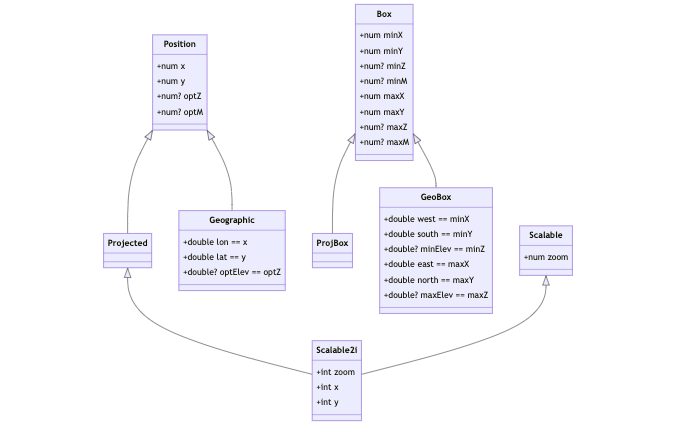
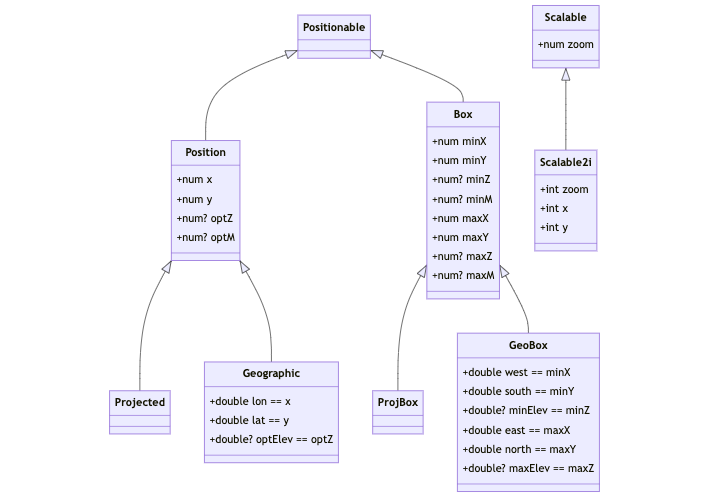
refactor(geobase): remove inheritance of Scalable2i from Projected #183
BREAKING CHANGE: definition of Scalable2i changed, some methods removed

Changed region(s): [[0.1553, 0.0, 0.8698, 1.0], [0.466, 0.52, 0.5281, 0.6424], [0.3417, 0.1224, 0.3728, 0.1529]]

diff --git a/dart/geobase/lib/src/coordinates/scalable/scalable2i.dart b/dart/geobase/lib/src/coordinates/scalable/scalable2i.dart
@@ -6,38 +6,32 @@
 
 import 'package:meta/meta.dart';
 
-import '/src/codes/coords.dart';
-import '/src/constants/epsilon.dart';
-import '/src/coordinates/base/position.dart';
-import '/src/coordinates/projected/projected.dart';
 import '/src/utils/format_validation.dart';
 import '/src/utils/num.dart';
 
 import 'scalable.dart';
 
-/// Scalable [x], [y] projected coordinates at the [zoom] level.
+/// Scalable [x], [y] coordinates at the [zoom] level.
 ///
 /// [zoom] must be a positive integer.
 ///
 /// Coordinates [x], [y] and [zoom] have integer values.
 ///
-/// Scalable coordinates are projected coordinates associated with some level of
-/// detail (LOD) or `zoom` level. They are used for example by tiling schemes to
+/// Scalable coordinates are coordinates associated with some level of detail
+/// (LOD) or `zoom` level. They are used for example by tiling schemes to
 /// represent *pixels* and *tiles* of tile matrices.
 @immutable
-class Scalable2i implements Scalable, Projected {
+class Scalable2i implements Scalable {
   @override
   final int zoom;
 
   /// The x coordinate value at [zoom].
-  @override
   final int x;
 
   /// The y coordinate value at [zoom].
-  @override
   final int y;
 
-  /// Create scalable [x], [y] projected coordinates at the [zoom] level.
+  /// Create scalable [x], [y] coordinates at the [zoom] level.
   ///
   /// [zoom] must be a positive integer.
   const Scalable2i({required this.zoom, required this.x, required this.y})
@@ -46,13 +40,12 @@ class Scalable2i implements Scalable, Projected {
   /// A factory function creating scalable [x], [y] coordinates at [zoom].
   ///
   /// [zoom] must be a positive integer.
-  ///
-  /// The returned function is compatible with the `CreatePosition` function
-  /// type.
-  static CreatePosition<Scalable2i> factory({int zoom = 0}) {
+  static Scalable2i Function({required int x, required int y}) factory({
+    int zoom = 0,
+  }) {
     assert(zoom >= 0, 'Zoom must be >= 0');
-    return ({required num x, required num y, num? z, num? m}) =>
-        Scalable2i(zoom: zoom, x: x.round(), y: y.round());
+    return ({required int x, required int y}) =>
+        Scalable2i(zoom: zoom, x: x, y: y);
   }
 
   /// Builds scalable coordinates from [coords] given in order: zoom, x, y.
@@ -132,118 +125,44 @@ class Scalable2i implements Scalable, Projected {
           );
   }
 
-  @override
-  num get z => 0;
-
-  @override
-  num? get optZ => null;
-
-  @override
-  num get m => 0;
-
-  @override
-  num? get optM => null;
-
   /// A coordinate value by the coordinate axis index [i].
   ///
   /// Returns zero when a coordinate axis is not available.
   ///
-  /// For mapped coordinates, the coordinate ordering is: (x, y)
-  @override
+  /// For scalable coordinates, the coordinate ordering is: (zoom, x, y)
   int operator [](int i) {
     switch (i) {
       case 0:
-        return x;
+        return zoom;
       case 1:
+        return x;
+      case 2:
         return y;
       default:
         return 0;
     }
   }
 
-  /// Coordinate values of this position as an iterable of 2 items.
+  /// Coordinate values of this position as an iterable of 3 items.
   ///
-  /// For scalable coordinates, the coordinate ordering is: (x, y)
-  @override
-  Iterable<int> get values => [x, y];
-
-  @override
-  R copyTo<R extends Position>(CreatePosition<R> factory) =>
-      factory.call(x: x, y: y);
+  /// For scalable coordinates, the coordinate ordering is: (zoom, x, y)
+  Iterable<int> get values => [zoom, x, y];
 
   /// Copies the point with optional [zoom], [x] and [y] overriding values.
   ///
-  /// Parameters [z] and [m] are ignored as `MapPoint2i` does not support them.
-  ///
-  /// For example: `MapPoint2i(zoom: 2, x: 1, y: 1).copyWith(y: 2)` equals to
-  /// `MapPoint2i(zoom: 2, x: 1, y: 2)`.
-  @override
-  Scalable2i copyWith({int? zoom, num? x, num? y, num? z, num? m}) =>
-      Scalable2i(
+  /// For example: `Scalable2i(zoom: 2, x: 1, y: 1).copyWith(y: 2)` equals to
+  /// `Scalable2i(zoom: 2, x: 1, y: 2)`.
+  Scalable2i copyWith({int? zoom, int? x, int? y}) => Scalable2i(
         zoom: zoom ?? this.zoom,
-        x: (x ?? this.x).round(),
-        y: (y ?? this.y).round(),
+        x: x ?? this.x,
+        y: y ?? this.y,
       );
 
+  /// A string representation of coordinate values separated by [delimiter].
+  ///
+  /// For scalable coordinates, the coordinate ordering is: (zoom, x, y)
   @override
-  Projected transform(TransformPosition transform) => transform.call(this);
-
-  @override
-  int get spatialDimension => 2;
-
-  @override
-  int get coordinateDimension => 2;
-
-/*
-  @override
-  bool get isGeographic => false;
-*/
-
-  @override
-  bool get is3D => false;
-
-  @override
-  bool get isMeasured => false;
-
-  @override
-  Coords get type => Coords.xy; // Note: "zoom" is not coordinate but LOD
-
-  @override
-  bool equals2D(
-    Position other, {
-    double toleranceHoriz = defaultEpsilon,
-  }) =>
-      Position.testEquals2D(this, other, toleranceHoriz: toleranceHoriz);
-
-  @override
-  bool equals3D(
-    Position other, {
-    double toleranceHoriz = defaultEpsilon,
-    double toleranceVert = defaultEpsilon,
-  }) =>
-      Position.testEquals3D(
-        this,
-        other,
-        toleranceHoriz: toleranceHoriz,
-        toleranceVert: toleranceVert,
-      );
-
-  @override
-  String toText({
-    String delimiter = ',',
-    int? decimals,
-    bool swapXY = false,
-  }) {
-    final buf = StringBuffer();
-    Position.writeValues(
-      this,
-      buf,
-      delimiter: delimiter,
-      decimals: decimals,
-      swapXY: swapXY,
-    );
-    return buf.toString();
-  }
+  String toText({String delimiter = ','}) => '$zoom$delimiter$x$delimiter$y';
 
   @override
   String toString() {

diff --git a/dart/geobase/test/tiling/web_mercator_quad_test.dart b/dart/geobase/test/tiling/web_mercator_quad_test.dart
@@ -13,8 +13,6 @@ import 'package:test/test.dart';
 
 import '../projections/projection_sample.dart';
 
-import 'tiling_samples.dart';
-
 const _samples = [
   Geographic(lon: 0.0, lat: 0.0),
   Geographic(lon: -87.65, lat: 41.85),
@@ -98,10 +96,7 @@ void main() {
           // geographic position to pixel
           final pixel = webMercator.positionToPixel(pos, zoom: zoom);
           final pixelRef = _refToPixel(pos, zoom);
-          expectScaled2i(
-            pixel,
-            pixelRef,
-          );
+          expect(pixel, pixelRef);
 
           // calculated pixel back to geographic position (not accurate anymore)
           final unprojectedPos = webMercator.pixelToPosition(pixel);
@@ -114,22 +109,19 @@ void main() {
           // and again to pixel
           final pixel2 =
               webMercator.positionToPixel(unprojectedPos, zoom: zoom);
-          expectScaled2i(pixel2, pixelRef);
+          expect(pixel2, pixelRef);
 
           // geographic position to tile
           final tile = webMercator.positionToTile(pos, zoom: zoom);
           final tileRef = _refToTile(pos, zoom);
-          expectScaled2i(tile, tileRef);
+          expect(tile, tileRef);
 
           // pixel to tile
-          expectScaled2i(webMercator.pixelToTile(pixel), tileRef);
+          expect(webMercator.pixelToTile(pixel), tileRef);
 
           // world to pixel
           final pixel3 = webMercator.worldToPixel(world, zoom: zoom);
-          expectScaled2i(
-            pixel3,
-            pixelRef,
-          );
+          expect(pixel3, pixelRef);
 
           // pixel to world
           expectPosition(webMercator.pixelToWorld(pixel), world, 0.5);
@@ -137,7 +129,7 @@ void main() {
           expectPosition(webMercator.pixelToWorld(pixel3), world, 0.5);
 
           // world to tile
-          expectScaled2i(webMercator.worldToTile(world, zoom: zoom), tileRef);
+          expect(webMercator.worldToTile(world, zoom: zoom), tileRef);
         }
       }
     });

diff --git a/dart/geobase/test/tiling/global_geodetic_quad_test.dart b/dart/geobase/test/tiling/global_geodetic_quad_test.dart
@@ -9,8 +9,6 @@ import 'package:test/test.dart';
 
 import '../projections/projection_sample.dart';
 
-import 'tiling_samples.dart';
-
 const _samples = [
   [
     Geographic(lon: -87.65, lat: 41.85),
@@ -47,11 +45,11 @@ void main() {
         final tileBounds = sample[4] as GeoBox;
 
         expectPosition(crs84.positionToWorld(pos), world, 0.000001);
-        expectScaled2i(crs84.positionToPixel(pos, zoom: pixel.zoom), pixel);
-        expectScaled2i(crs84.positionToTile(pos, zoom: tile.zoom), tile);
+        expect(crs84.positionToPixel(pos, zoom: pixel.zoom), pixel);
+        expect(crs84.positionToTile(pos, zoom: tile.zoom), tile);
         expectPosition(crs84.worldToPosition(world), pos, 0.0000001);
-        expectScaled2i(crs84.worldToPixel(world, zoom: pixel.zoom), pixel);
-        expectScaled2i(crs84.worldToTile(world, zoom: tile.zoom), tile);
+        expect(crs84.worldToPixel(world, zoom: pixel.zoom), pixel);
+        expect(crs84.worldToTile(world, zoom: tile.zoom), tile);
         expectPosition(crs84.pixelToPosition(pixel), pos, 0.2);
         expectPosition(crs84.pixelToWorld(pixel), world, 0.3);
         expect(crs84.tileToBounds(tile), tileBounds);

diff --git a/dart/geobase/test/coordinates/scalable_test.dart b/dart/geobase/test/coordinates/scalable_test.dart
@@ -21,6 +21,16 @@ void main() {
       expect(Scalable2i.factory(zoom: 9).call(x: 23, y: 10), ref9);
     });
 
+    test('Test Scalable2i coordinates (output)', () {
+      expect(Scalable2i.build(const [9, 23, 10]).toText(), '9,23,10');
+      expect(Scalable2i.parse('9;23;10', delimiter: ';').values, [9, 23, 10]);
+
+      final s2i = Scalable2i.factory(zoom: 9).call(x: 23, y: 10);
+      expect(s2i[0], 9);
+      expect(s2i[1], 23);
+      expect(s2i[2], 10);
+    });
+
     test('Test Scalable2i zoomIn and zoomOut', () {
       expect(ref0.zoomIn(), const Scalable2i(zoom: 1, x: 2, y: 0));
       expect(ref0.zoomOut(), const Scalable2i(zoom: 0, x: 1, y: 0));

diff --git a/dart/geobase/lib/src/coordinates/scalable/scalable.dart b/dart/geobase/lib/src/coordinates/scalable/scalable.dart
@@ -29,4 +29,9 @@ abstract class Scalable {
 
   /// Zooms to the [zoom] level (a positive number).
   Scalable zoomTo(covariant num zoom);
+
+  /// A string representation of coordinate values separated by [delimiter].
+  String toText({
+    String delimiter = ',',
+  });
 }

diff --git a/dart/geobase/CHANGELOG.md b/dart/geobase/CHANGELOG.md
@@ -7,6 +7,7 @@ NOTE: Version 0.5.0 currently [under development](https://github.com/navibyte/ge
 ⚠ Breaking changes:
 * The `WkbConf` class removed, added `buildEmptyGeometries` for WKB decoder.
 * `Position` and `Box`: tolerance type from `num?` to `double` (see #146).
+* [Remove inheritance of Scalable2i from Projected #183](https://github.com/navibyte/geospatial/issues/183)
 
 🧩 Features:
 * [Add common geospatial and geodesy functions #106](https://github.com/navibyte/geospatial/issues/106)
